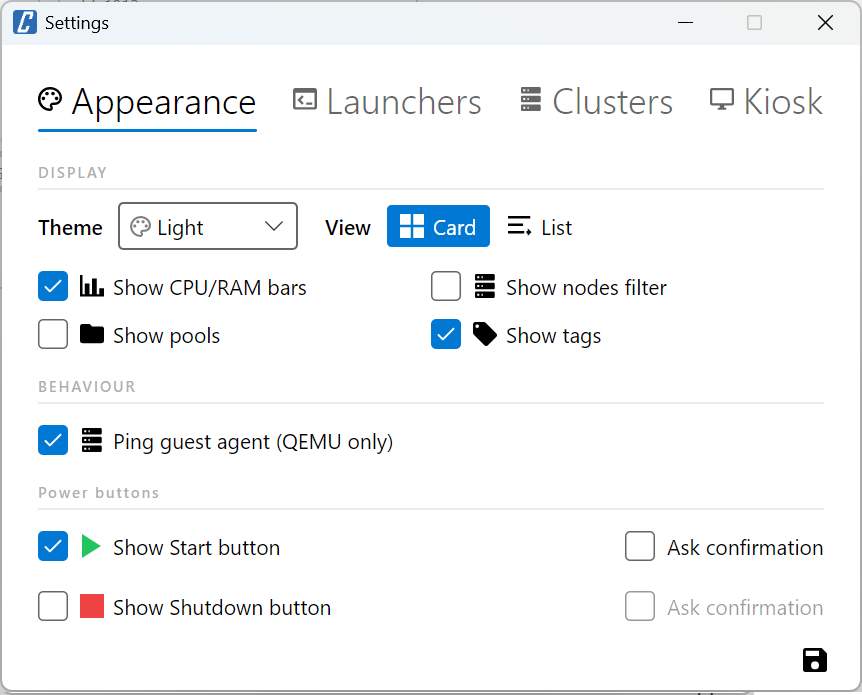
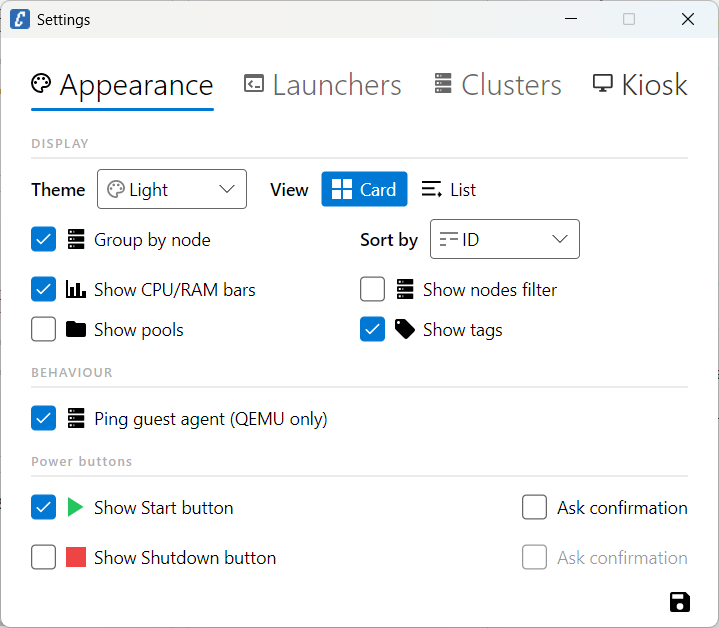
feat: group by node and sort by ID/Name for VMs and CTs (#25) (#31)
* feat: group by node and sort by ID/Name for VMs and CTs (#25)

Adds two new preferences in Settings -> Appearance:
- "Group by node" (default on) — when off, the node headers are
  hidden and VMs/CTs render as a single flat list across all nodes.
- "Sort by" — ID (default, current behaviour) or Name.

Both controls stay visible even when kiosk mode hides the rest of
the advanced section, so kiosk users can re-order the list without
the admin password.

The sort is applied globally in ApplyFilter, so CTs and VMs are
properly interleaved by ID/Name instead of always rendering as
CTs-then-VMs as before. Node rows keep their alphabetical order.

Adds the four new localisation keys (GroupByNode, SortBy, SortById,
SortByName) to all ten Strings.*.resx files.

* feat: clear (x) button on search and kiosk background path

Enables the Fluent theme "clearButton" class on the main-window
search box and on the kiosk login-background path field, so users
can wipe the input with a single click instead of selecting and
deleting the text.

* docs: document Group by node and Sort by settings (#25)

Adds the two new Appearance preferences to docs/SETTINGS.md and
updates the kiosk-visible-options note, refreshes the screenshot,
and lists the changes under [Unreleased] in CHANGELOG.md.

diff --git a/src/Corsinvest.ProxmoxVE.Vdi/UI/SettingsWindow.Appearance.cs b/src/Corsinvest.ProxmoxVE.Vdi/UI/SettingsWindow.Appearance.cs
@@ -67,6 +67,35 @@ internal static partial class SettingsWindow
         var chkShowPools = new CheckBox { Content = UiHelper.WithText(AppIcons.Folder, L("ShowPools")), IsChecked = config.ShowPools };
         var chkShowTags = new CheckBox { Content = UiHelper.WithText(AppIcons.Tag, L("ShowTags")), IsChecked = config.ShowTags };
 
+        var chkGroupByNode = new CheckBox
+        {
+            Content = UiHelper.WithText(AppIcons.Server, L("GroupByNode")),
+            IsChecked = config.GroupByNode
+        };
+
+        var sortItems = new[] { AppConfig.SortById, AppConfig.SortByName };
+        var sortLabels = new[] { L("SortById"), L("SortByName") };
+        var cmbSortBy = new ComboBox
+        {
+            ItemsSource = sortLabels,
+            SelectedIndex = config.SortBy == AppConfig.SortByName ? 1 : 0,
+            HorizontalAlignment = HorizontalAlignment.Left,
+            Width = 120,
+            Padding = new Thickness(26, 0, 0, 0)
+        };
+        var cmbSortByWithIcon = UiHelper.WithIcon(cmbSortBy, AppIcons.Tune);
+        var sortRow = new StackPanel
+        {
+            Orientation = Orientation.Horizontal,
+            Spacing = 10,
+            VerticalAlignment = VerticalAlignment.Center,
+            Children =
+            {
+                new TextBlock { Text = L("SortBy"), FontWeight = FontWeight.SemiBold, VerticalAlignment = VerticalAlignment.Center },
+                cmbSortByWithIcon
+            }
+        };
+
         var chkEnableAgentPing = new CheckBox { Content = UiHelper.WithText(AppIcons.Server, L("EnableAgentPing")), IsChecked = config.EnableAgentPing };
 
         var chkShowStart = new CheckBox { Content = UiHelper.WithText(AppIcons.Play, L("ShowStartButton"), new SolidColorBrush(AppColors.Running)), IsChecked = config.ShowStartButton };
@@ -79,6 +108,18 @@ internal static partial class SettingsWindow
 
         chkShowStart.IsCheckedChanged += (_, _) => chkConfirmStart.IsEnabled = chkShowStart.IsChecked is true;
         chkShowShutdown.IsCheckedChanged += (_, _) => chkConfirmShutdown.IsEnabled = chkShowShutdown.IsChecked is true;
+
+        // Group/Sort stays visible even when kiosk hides the rest of the advanced section,
+        // so kiosk users can re-order the VM list without the admin password.
+        var groupSortRow = new Grid
+        {
+            ColumnDefinitions = new ColumnDefinitions("*,*"),
+            Children =
+            {
+                chkGroupByNode,
+                Placed(sortRow, 1, 0),
+            }
+        };
 
         var advancedSection = new StackPanel
         {
@@ -117,6 +158,7 @@ internal static partial class SettingsWindow
                 {
                     SectionHeader(L("SectionDisplay")),
                     themeRow,
+                    groupSortRow,
                     advancedSection,
                 }
             }
@@ -130,6 +172,8 @@ internal static partial class SettingsWindow
             config.ShowNodes = chkShowNodes.IsChecked is true;
             config.ShowPools = chkShowPools.IsChecked is true;
             config.ShowTags = chkShowTags.IsChecked is true;
+            config.GroupByNode = chkGroupByNode.IsChecked is true;
+            config.SortBy = sortItems[Math.Max(0, cmbSortBy.SelectedIndex)];
             config.ShowStartButton = chkShowStart.IsChecked is true;
             config.ConfirmStart = chkConfirmStart.IsChecked is true;
             config.ShowShutdownButton = chkShowShutdown.IsChecked is true;

diff --git a/src/Corsinvest.ProxmoxVE.Vdi/UI/MainWindow.Common.cs b/src/Corsinvest.ProxmoxVE.Vdi/UI/MainWindow.Common.cs
@@ -499,6 +499,19 @@ internal partial class MainWindow
         var showStopped = _chkStopped.IsChecked is true;
         var list = filtered.Where(a => a.HasAnyVdiAction
                                        || (showStopped && a.CanPower && !a.IsActive)).ToList();
+
+        // Sort VMs/CTs globally per the user's choice (nodes keep their alphabetical order
+        // applied at fetch time). _allRows is built in two passes (LXC first, then QEMU),
+        // so without this re-sort the rendered order would always be CT-then-VM regardless
+        // of ID/Name. Sorting here also makes the order observable in both grouped and
+        // flat (GroupByNode = false) layouts.
+        var sortedVms = _config.SortBy == AppConfig.SortByName
+                            ? list.Where(r => r.ResourceType == ClusterResourceType.Vm)
+                                  .OrderBy(r => r.Name, StringComparer.OrdinalIgnoreCase)
+                            : list.Where(r => r.ResourceType == ClusterResourceType.Vm)
+                                  .OrderBy(r => r.Resource.VmId);
+        list = [.. list.Where(r => r.ResourceType == ClusterResourceType.Node), .. sortedVms];
+
         RebuildCardView(list);
         RebuildListView(list);
 

diff --git a/src/Corsinvest.ProxmoxVE.Vdi/UI/MainWindow.Refresh.cs b/src/Corsinvest.ProxmoxVE.Vdi/UI/MainWindow.Refresh.cs
@@ -6,6 +6,7 @@
 using Corsinvest.ProxmoxVE.Api.Extension;
 using Corsinvest.ProxmoxVE.Api.Shared.Models.Cluster;
 using Corsinvest.ProxmoxVE.Api.Shared.Models.Vm;
+using Corsinvest.ProxmoxVE.Vdi.Config.Models;
 using Corsinvest.ProxmoxVE.Vdi.Services;
 using Corsinvest.ProxmoxVE.Vdi.UI.Models;
 using System.Text.RegularExpressions;
@@ -48,9 +49,12 @@ internal partial class MainWindow
                                  .OrderBy(r => r.Node)
                                  .ToList();
 
-            var vms = resources.Where(r => r.ResourceType == ClusterResourceType.Vm && !r.IsUnknown)
-                               .OrderBy(r => r.Node).ThenBy(r => r.VmId)
-                               .ToList();
+            var vms = (_config.SortBy == AppConfig.SortByName
+                            ? resources.Where(r => r.ResourceType == ClusterResourceType.Vm && !r.IsUnknown)
+                                       .OrderBy(r => r.Name, StringComparer.OrdinalIgnoreCase)
+                            : resources.Where(r => r.ResourceType == ClusterResourceType.Vm && !r.IsUnknown)
+                                       .OrderBy(r => r.VmId))
+                       .ToList();
 
             _progressBar.Value = 20;
 

diff --git a/src/Corsinvest.ProxmoxVE.Vdi/UI/MainWindow.List.cs b/src/Corsinvest.ProxmoxVE.Vdi/UI/MainWindow.List.cs
@@ -3,6 +3,7 @@
  * SPDX-License-Identifier: MIT
  */
 
+using Corsinvest.ProxmoxVE.Api.Shared.Models.Cluster;
 using Corsinvest.ProxmoxVE.Vdi.UI.Helpers;
 using Corsinvest.ProxmoxVE.Vdi.UI.Models;
 using AGrid = Avalonia.Controls.Grid;
@@ -132,6 +133,21 @@ internal partial class MainWindow
     internal void RebuildListView(List<ResourceRow> rows)
     {
         _listContent.Children.Clear();
+
+        if (!_config.GroupByNode)
+        {
+            var flatVms = rows.Where(r => r.ResourceType == ClusterResourceType.Vm).ToList();
+            if (flatVms.Count > 0)
+            {
+                var rowsPanel = new StackPanel { Spacing = 2 };
+                foreach (var item in flatVms)
+                {
+                    rowsPanel.Children.Add(BuildListRow(item));
+                }
+                _listContent.Children.Add(rowsPanel);
+            }
+            return;
+        }
 
         ForEachNodeGroup(rows, (nodeName, nodeRow, nodeVms) =>
         {

diff --git a/src/Corsinvest.ProxmoxVE.Vdi/Config/Models/AppConfig.cs b/src/Corsinvest.ProxmoxVE.Vdi/Config/Models/AppConfig.cs
@@ -16,6 +16,9 @@ internal class AppConfig
     public const string ViewCard = "Card";
     public const string ViewList = "List";
 
+    public const string SortById = "ID";
+    public const string SortByName = "Name";
+
     /// <summary>Default view: Card or List</summary>
     public string DefaultView { get; set; } = ViewCard;
 
@@ -72,6 +75,12 @@ internal class AppConfig
 
     /// <summary>Show tag badges in card/list and tag filter in sidebar (default true)</summary>
     public bool ShowTags { get; set; } = true;
+
+    /// <summary>Group VMs/CTs under their node header in Card/List view (default true)</summary>
+    public bool GroupByNode { get; set; } = true;
+
+    /// <summary>Sort VMs/CTs by <see cref="SortById"/> or <see cref="SortByName"/> (default ID)</summary>
+    public string SortBy { get; set; } = SortById;
 
     /// <summary>Enable SPICE console (default true)</summary>
     public bool EnableSpice { get; set; } = true;

diff --git a/src/Corsinvest.ProxmoxVE.Vdi/UI/MainWindow.Cards.cs b/src/Corsinvest.ProxmoxVE.Vdi/UI/MainWindow.Cards.cs
@@ -196,6 +196,26 @@ internal partial class MainWindow
     {
         _cardContent.Children.Clear();
 
+        if (!_config.GroupByNode)
+        {
+            var flatVms = rows.Where(r => r.ResourceType == ClusterResourceType.Vm).ToList();
+            if (flatVms.Count > 0)
+            {
+                var wrap = new WrapPanel
+                {
+                    Orientation = Orientation.Horizontal,
+                    ItemSpacing = 12,
+                    LineSpacing = 12
+                };
+                foreach (var item in flatVms)
+                {
+                    wrap.Children.Add(BuildCard(item));
+                }
+                _cardContent.Children.Add(wrap);
+            }
+            return;
+        }
+
         ForEachNodeGroup(rows, (nodeName, nodeRow, nodeVms) =>
         {
             var header = BuildNodeHeader(nodeName, nodeRow);

diff --git a/src/Corsinvest.ProxmoxVE.Vdi/UI/MainWindow.cs b/src/Corsinvest.ProxmoxVE.Vdi/UI/MainWindow.cs
@@ -115,7 +115,8 @@ internal partial class MainWindow(PveClient client, ClusterConfig host, AppConfi
     private readonly TextBox _txtSearch = new()
     {
         PlaceholderText = L("SearchWatermark"),
-        [ToolTip.TipProperty] = $"{L("SearchTooltip")} (Ctrl+F)"
+        [ToolTip.TipProperty] = $"{L("SearchTooltip")} (Ctrl+F)",
+        Classes = { "clearButton" }
     };
     private readonly StackPanel _nodeFilters = new() { Spacing = 4 };
     private readonly StackPanel _poolFilters = new() { Spacing = 4 };

diff --git a/src/Corsinvest.ProxmoxVE.Vdi/UI/SettingsWindow.Kiosk.cs b/src/Corsinvest.ProxmoxVE.Vdi/UI/SettingsWindow.Kiosk.cs
@@ -41,6 +41,7 @@ internal static partial class SettingsWindow
 
         // Login background image picker
         var txtBackground = UiHelper.TextBox(config.KioskLoginBackground, L("KioskBackgroundWatermark"), AppIcons.Monitor);
+        txtBackground.Classes.Add("clearButton");
         var btnBrowseBackground = UiHelper.IconButton(AppIcons.Folder, "KioskBackgroundBrowse", margin: new Thickness(4, 0, 0, 0));
         var backgroundRow = UiHelper.RowWithButton(txtBackground, btnBrowseBackground);
 

diff --git a/docs/SETTINGS.md b/docs/SETTINGS.md
@@ -14,6 +14,8 @@ Controls how the VM list and card view look, plus a few behavioural toggles.
 |---------|-------------|
 | **Theme** | Light / Dark / System |
 | **Default view** | Card or List view at startup |
+| **Group by node** | When on (default), VMs and CTs are listed under their node header. When off, the headers disappear and everything renders as a single flat list across all nodes |
+| **Sort by** | *ID* (default) sorts by numeric VMID; *Name* sorts alphabetically. VMs and CTs are interleaved by the chosen key |
 | **Show CPU/RAM bars** | Toggle resource usage bars in card and list view |
 | **Show nodes filter** | Show the node filter section in the sidebar |
 | **Show pools** | Show the pool filter in the sidebar and pool info in cards |
@@ -24,7 +26,7 @@ Controls how the VM list and card view look, plus a few behavioural toggles.
 | **Ask confirmation** | Confirm before Start / Shutdown |
 
 > [!NOTE]
-> In **kiosk mode** non-admin users see only the **Theme** and **Default view** options on this tab. Everything else is hidden until the admin unlocks the session — see [docs/KIOSK.md](KIOSK.md).
+> In **kiosk mode** non-admin users see only **Theme**, **Default view**, **Group by node** and **Sort by** on this tab. Everything else is hidden until the admin unlocks the session — see [docs/KIOSK.md](KIOSK.md).
 
 ## Launchers tab
 

diff --git a/CHANGELOG.md b/CHANGELOG.md
@@ -7,6 +7,14 @@ and this project adheres to [Semantic Versioning](https://semver.org/spec/v2.0.0
 
 ## [Unreleased]
 
+### Added
+- **Group by node** (Settings → Appearance) — toggle off to render VMs/CTs as a single flat list without node headers
+- **Sort by** (Settings → Appearance) — order VMs and CTs by *ID* or *Name*; both kinds are now interleaved by the chosen key instead of always being rendered as CTs-then-VMs
+- **Clear (✕) button** on the search box and on the kiosk login-background path field
+
+### Changed
+- The **Group by node** and **Sort by** controls stay visible even in kiosk mode, so non-admin users can re-order the list without the admin password
+
 ## [1.5.0] - 2026-05-11
 
 ### Added
